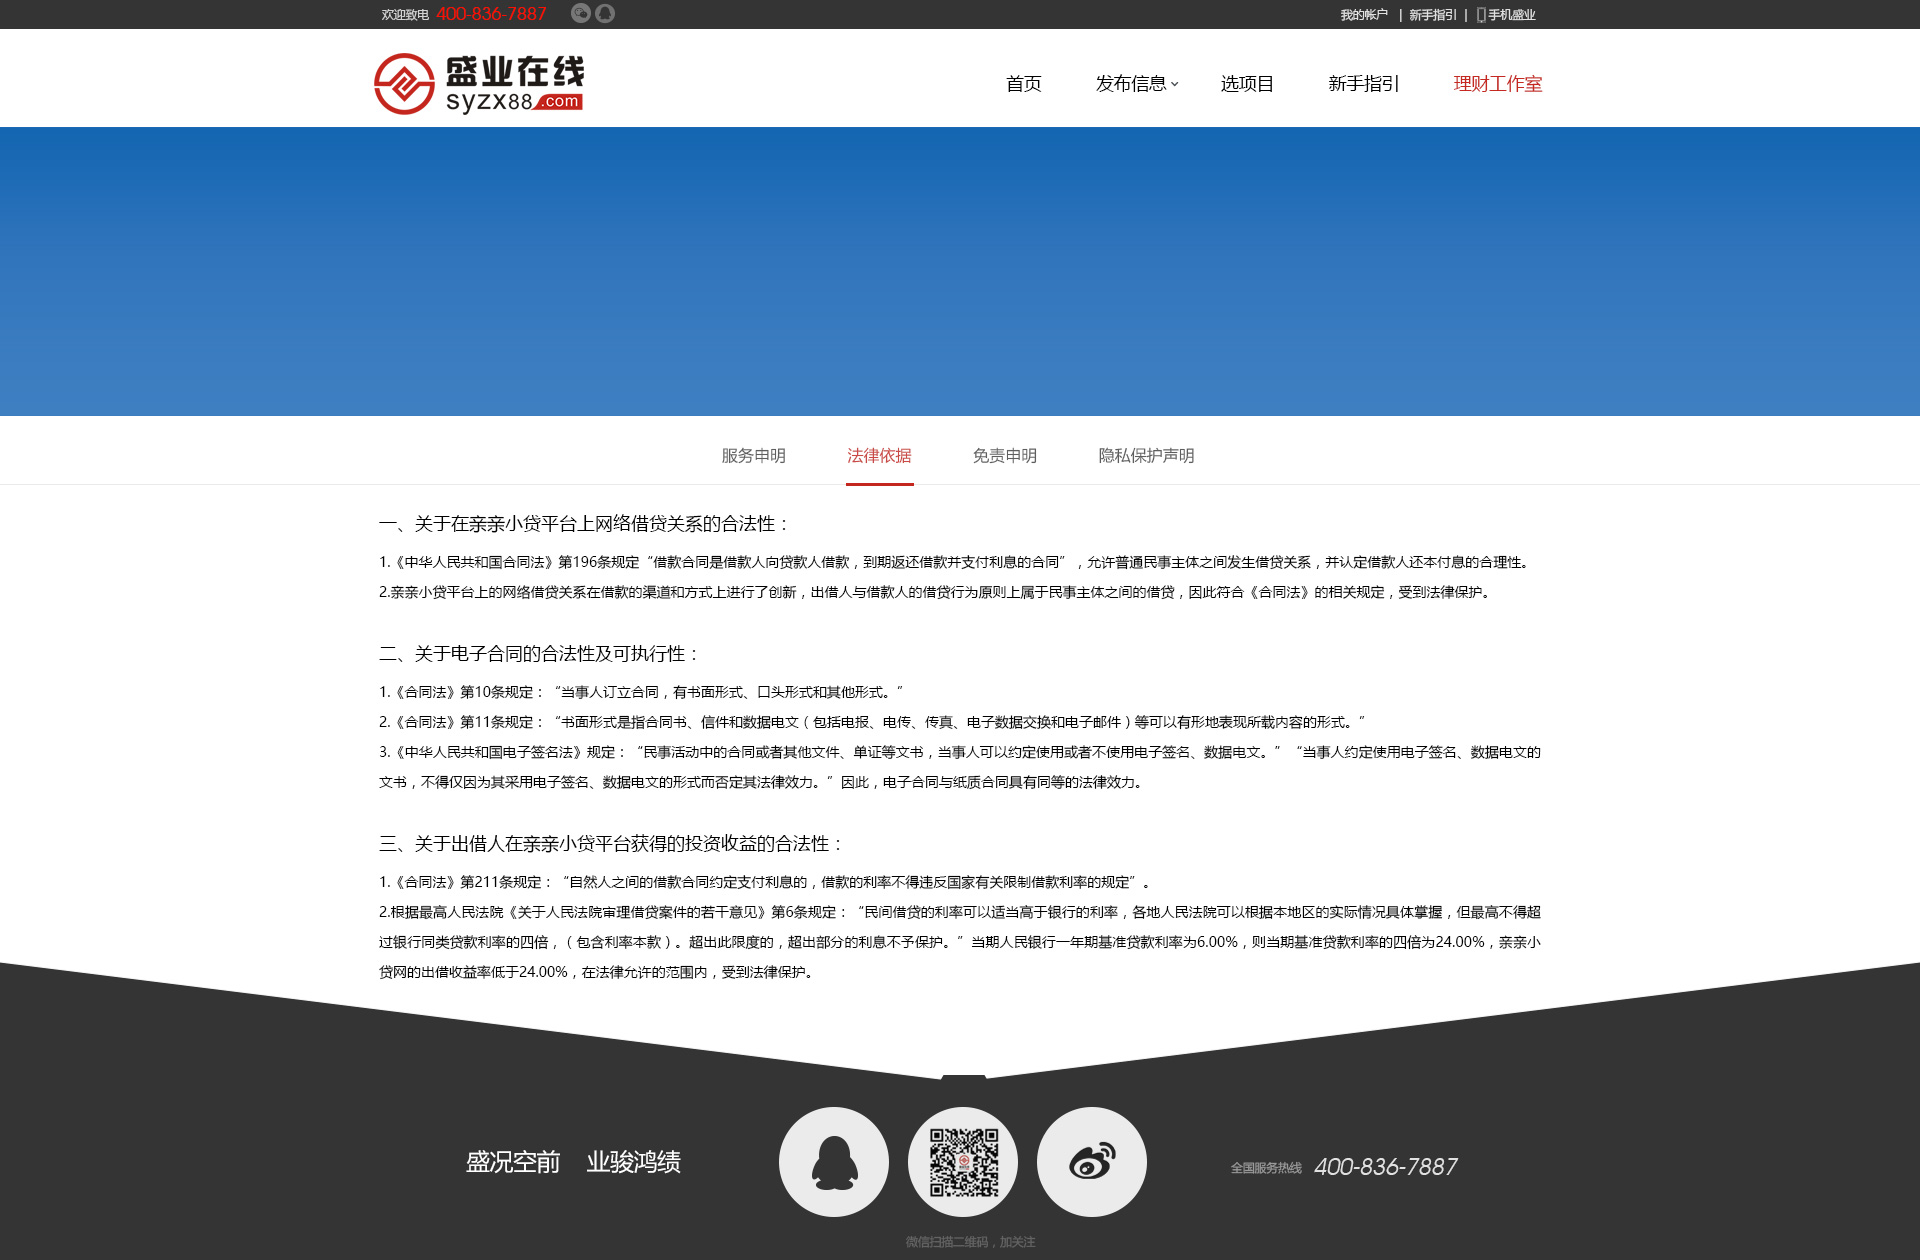
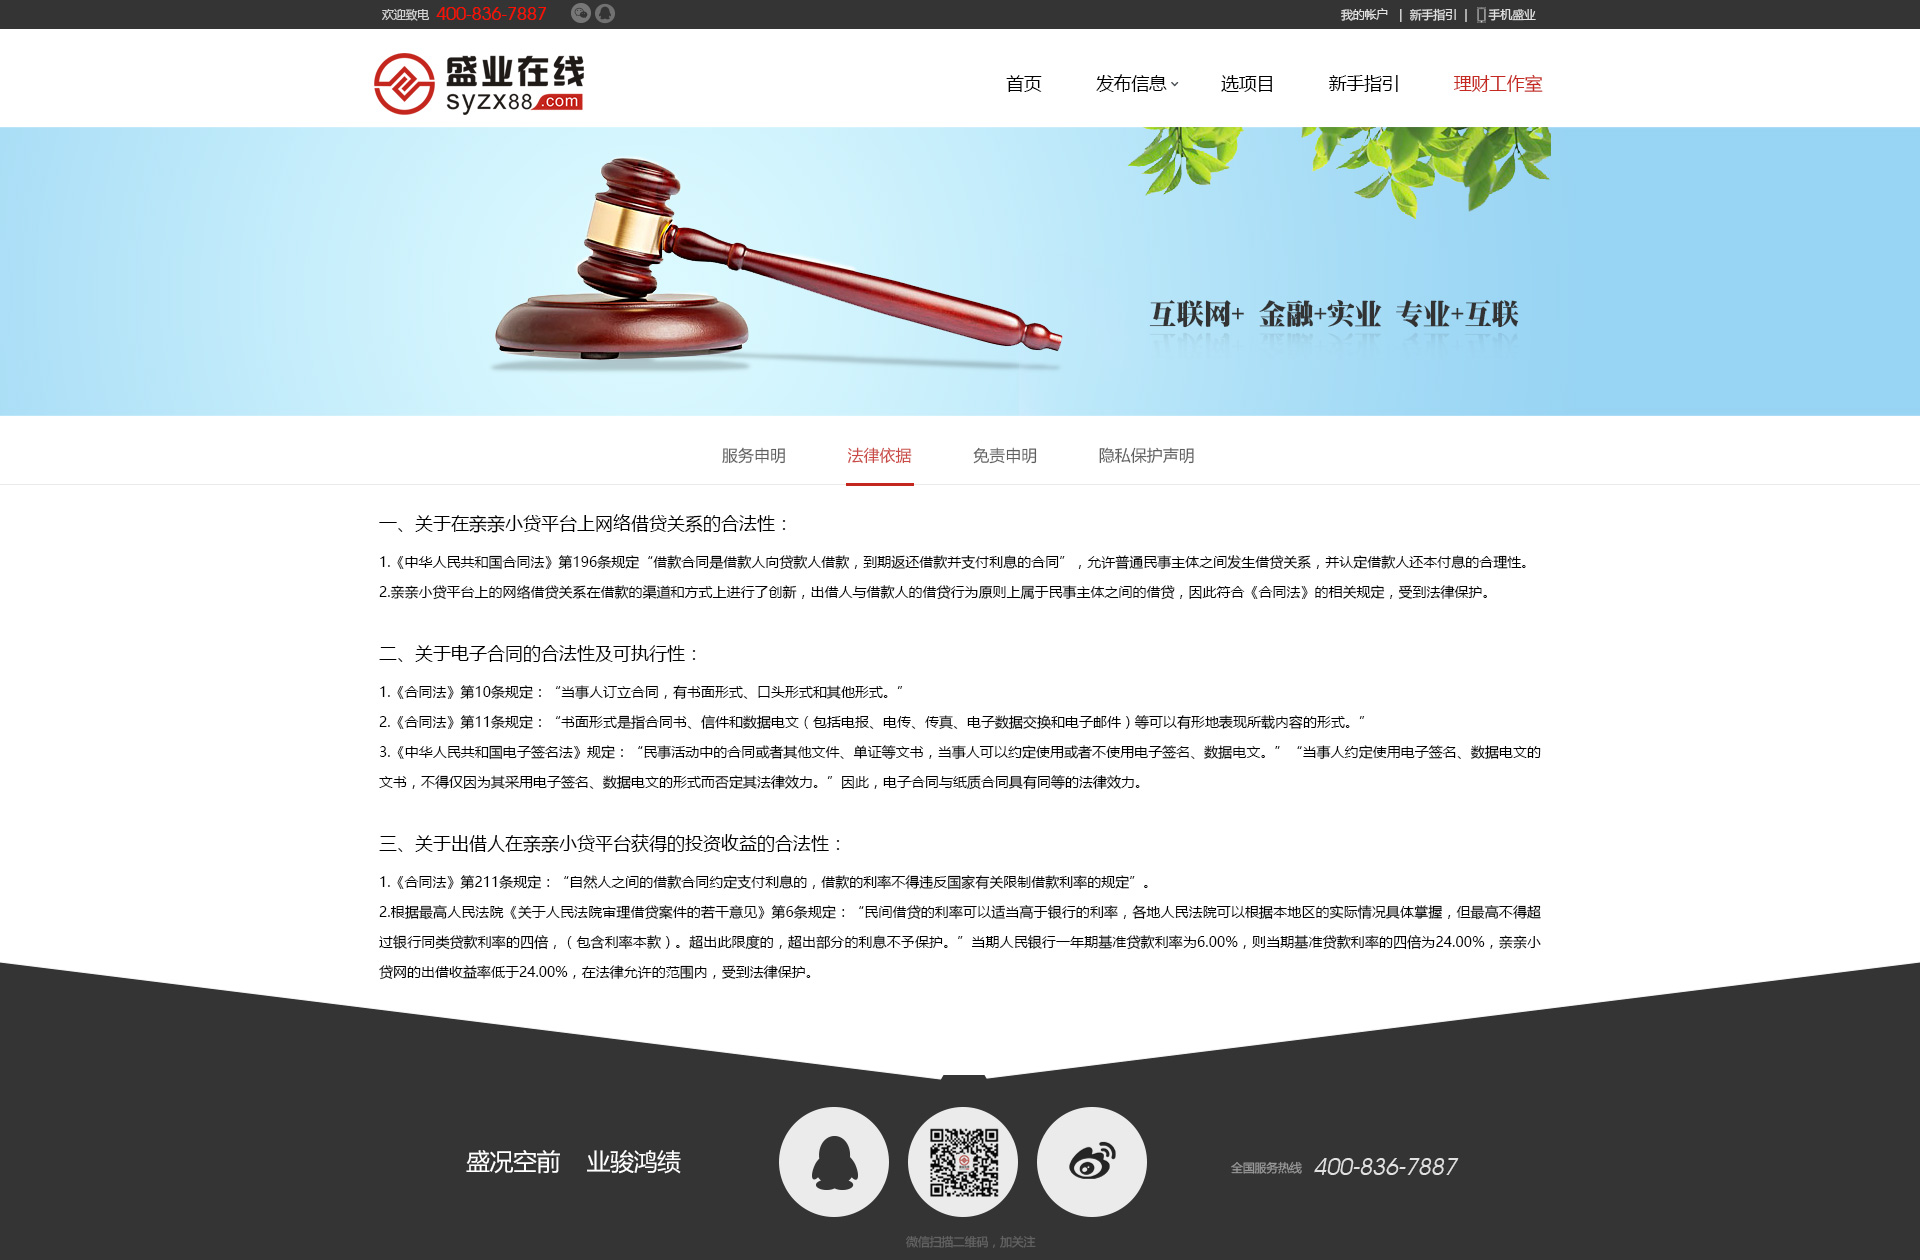
test

Changed region(s): [[0.0, 0.0929, 1.0, 0.3405]]

diff --git a/gsjj.html b/gsjj.html
@@ -9,7 +9,7 @@
 <body bgcolor="#E2E2E2" leftmargin="0" topmargin="0" marginwidth="0" marginheight="0">
 <table width="100%" border="0" cellspacing="0" cellpadding="0" style="background:url(images/gsjj.jpg) no-repeat center center;">
   <tr>
-    <td width="100%" height="1315">&nbsp;</td>
+    <td width="100%" height="1267">&nbsp;</td>
   </tr>
 </table>
 
